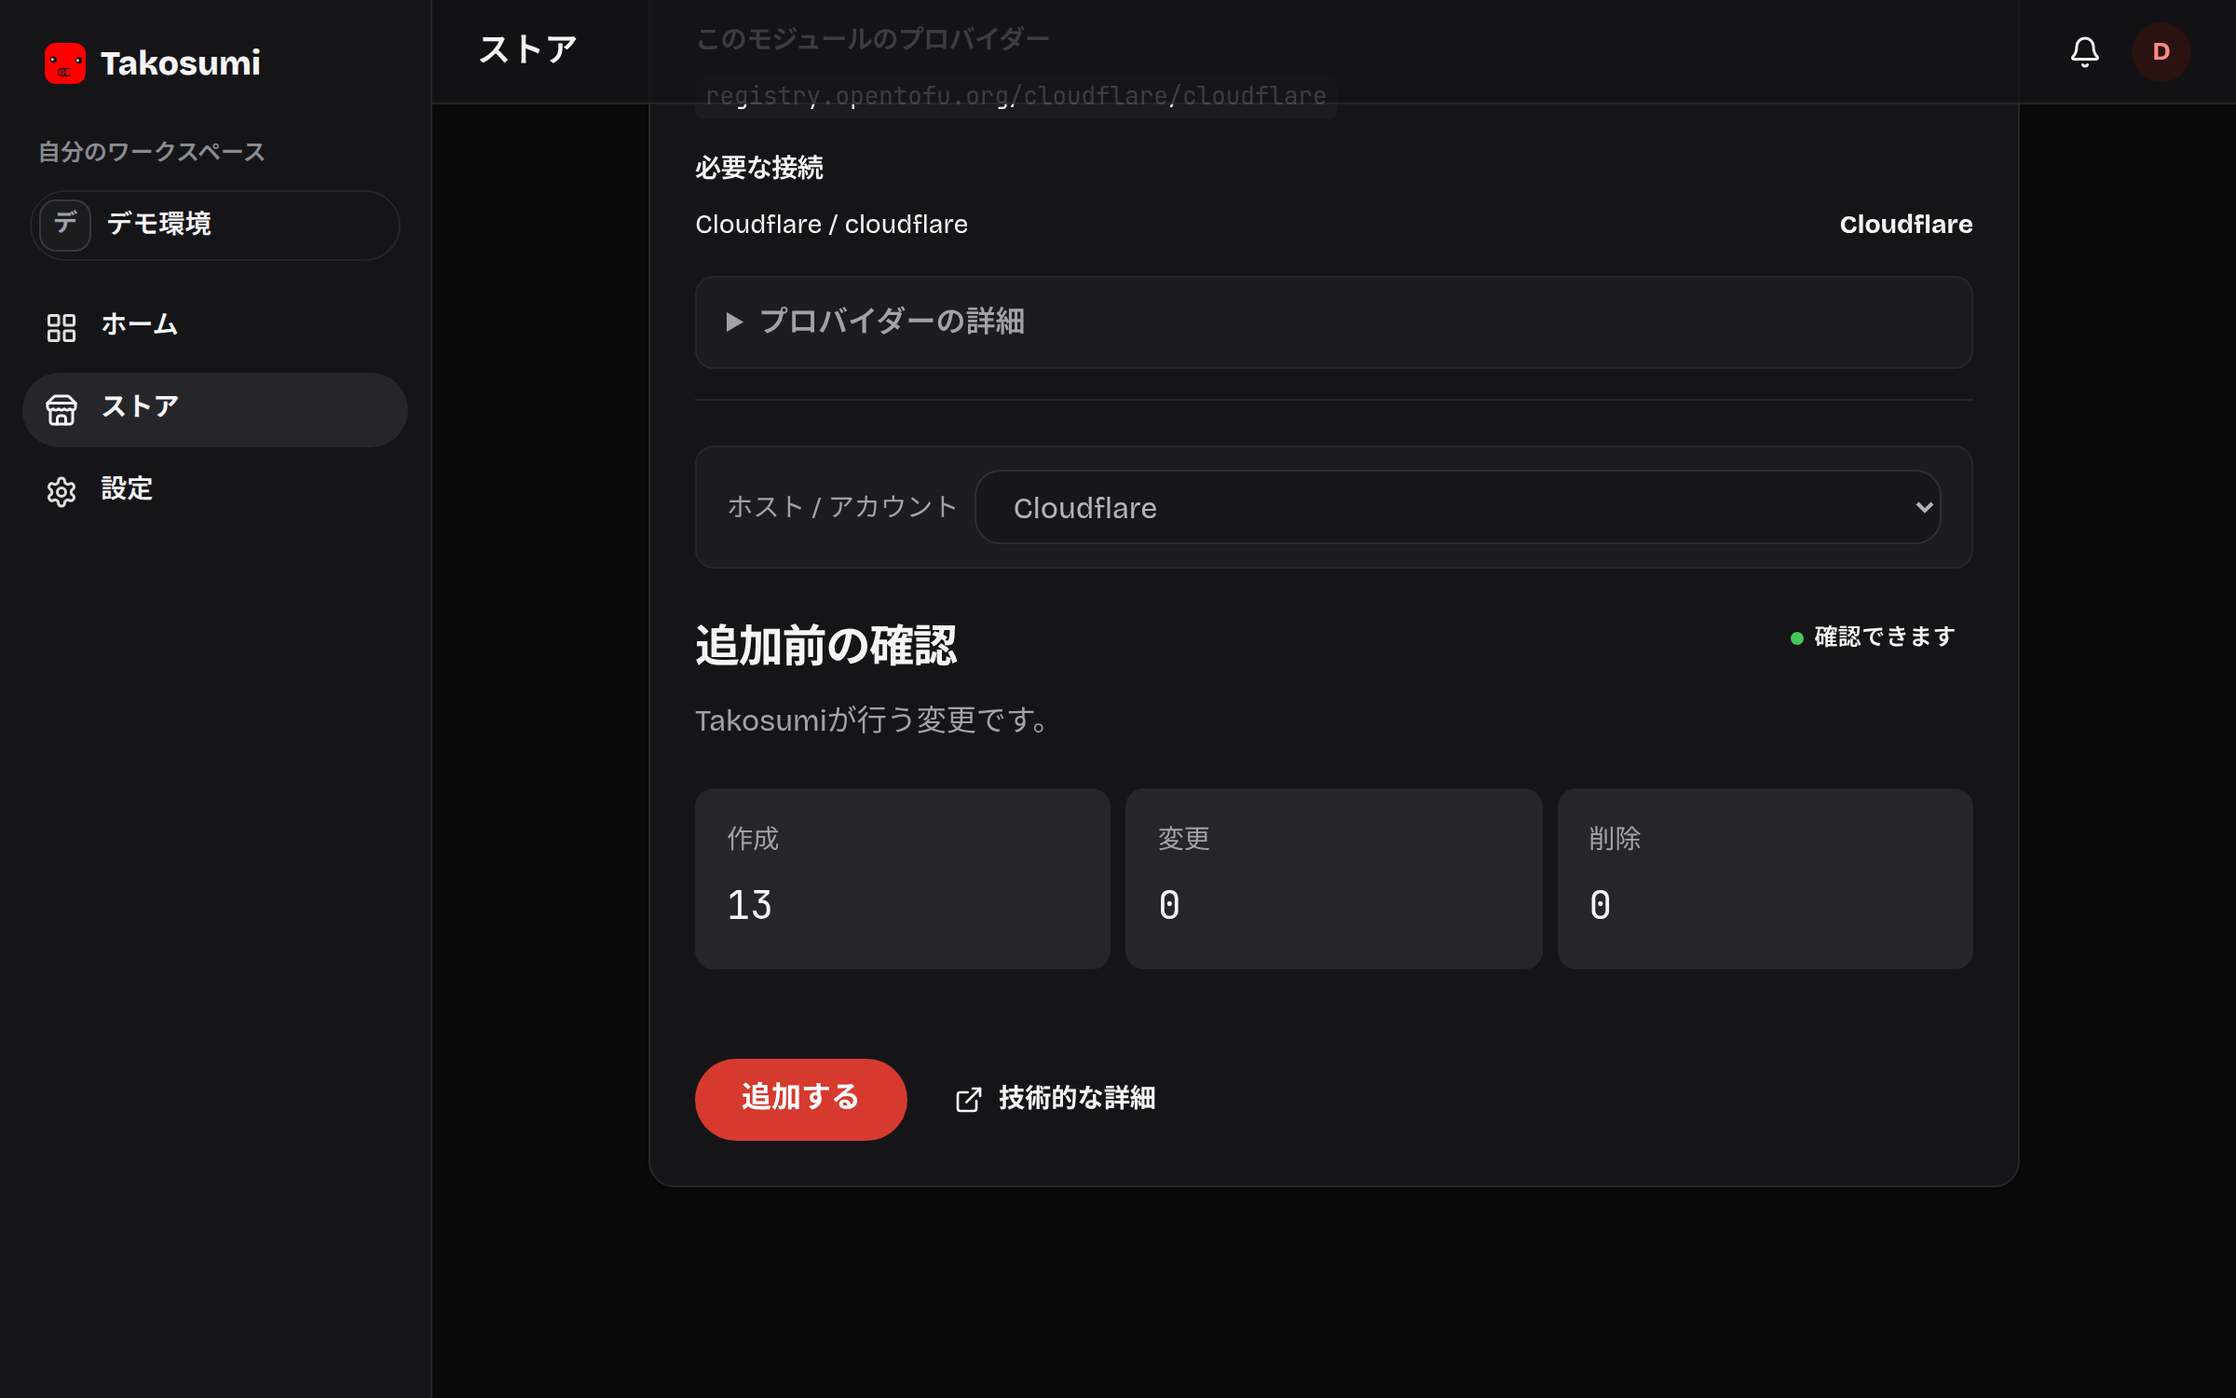
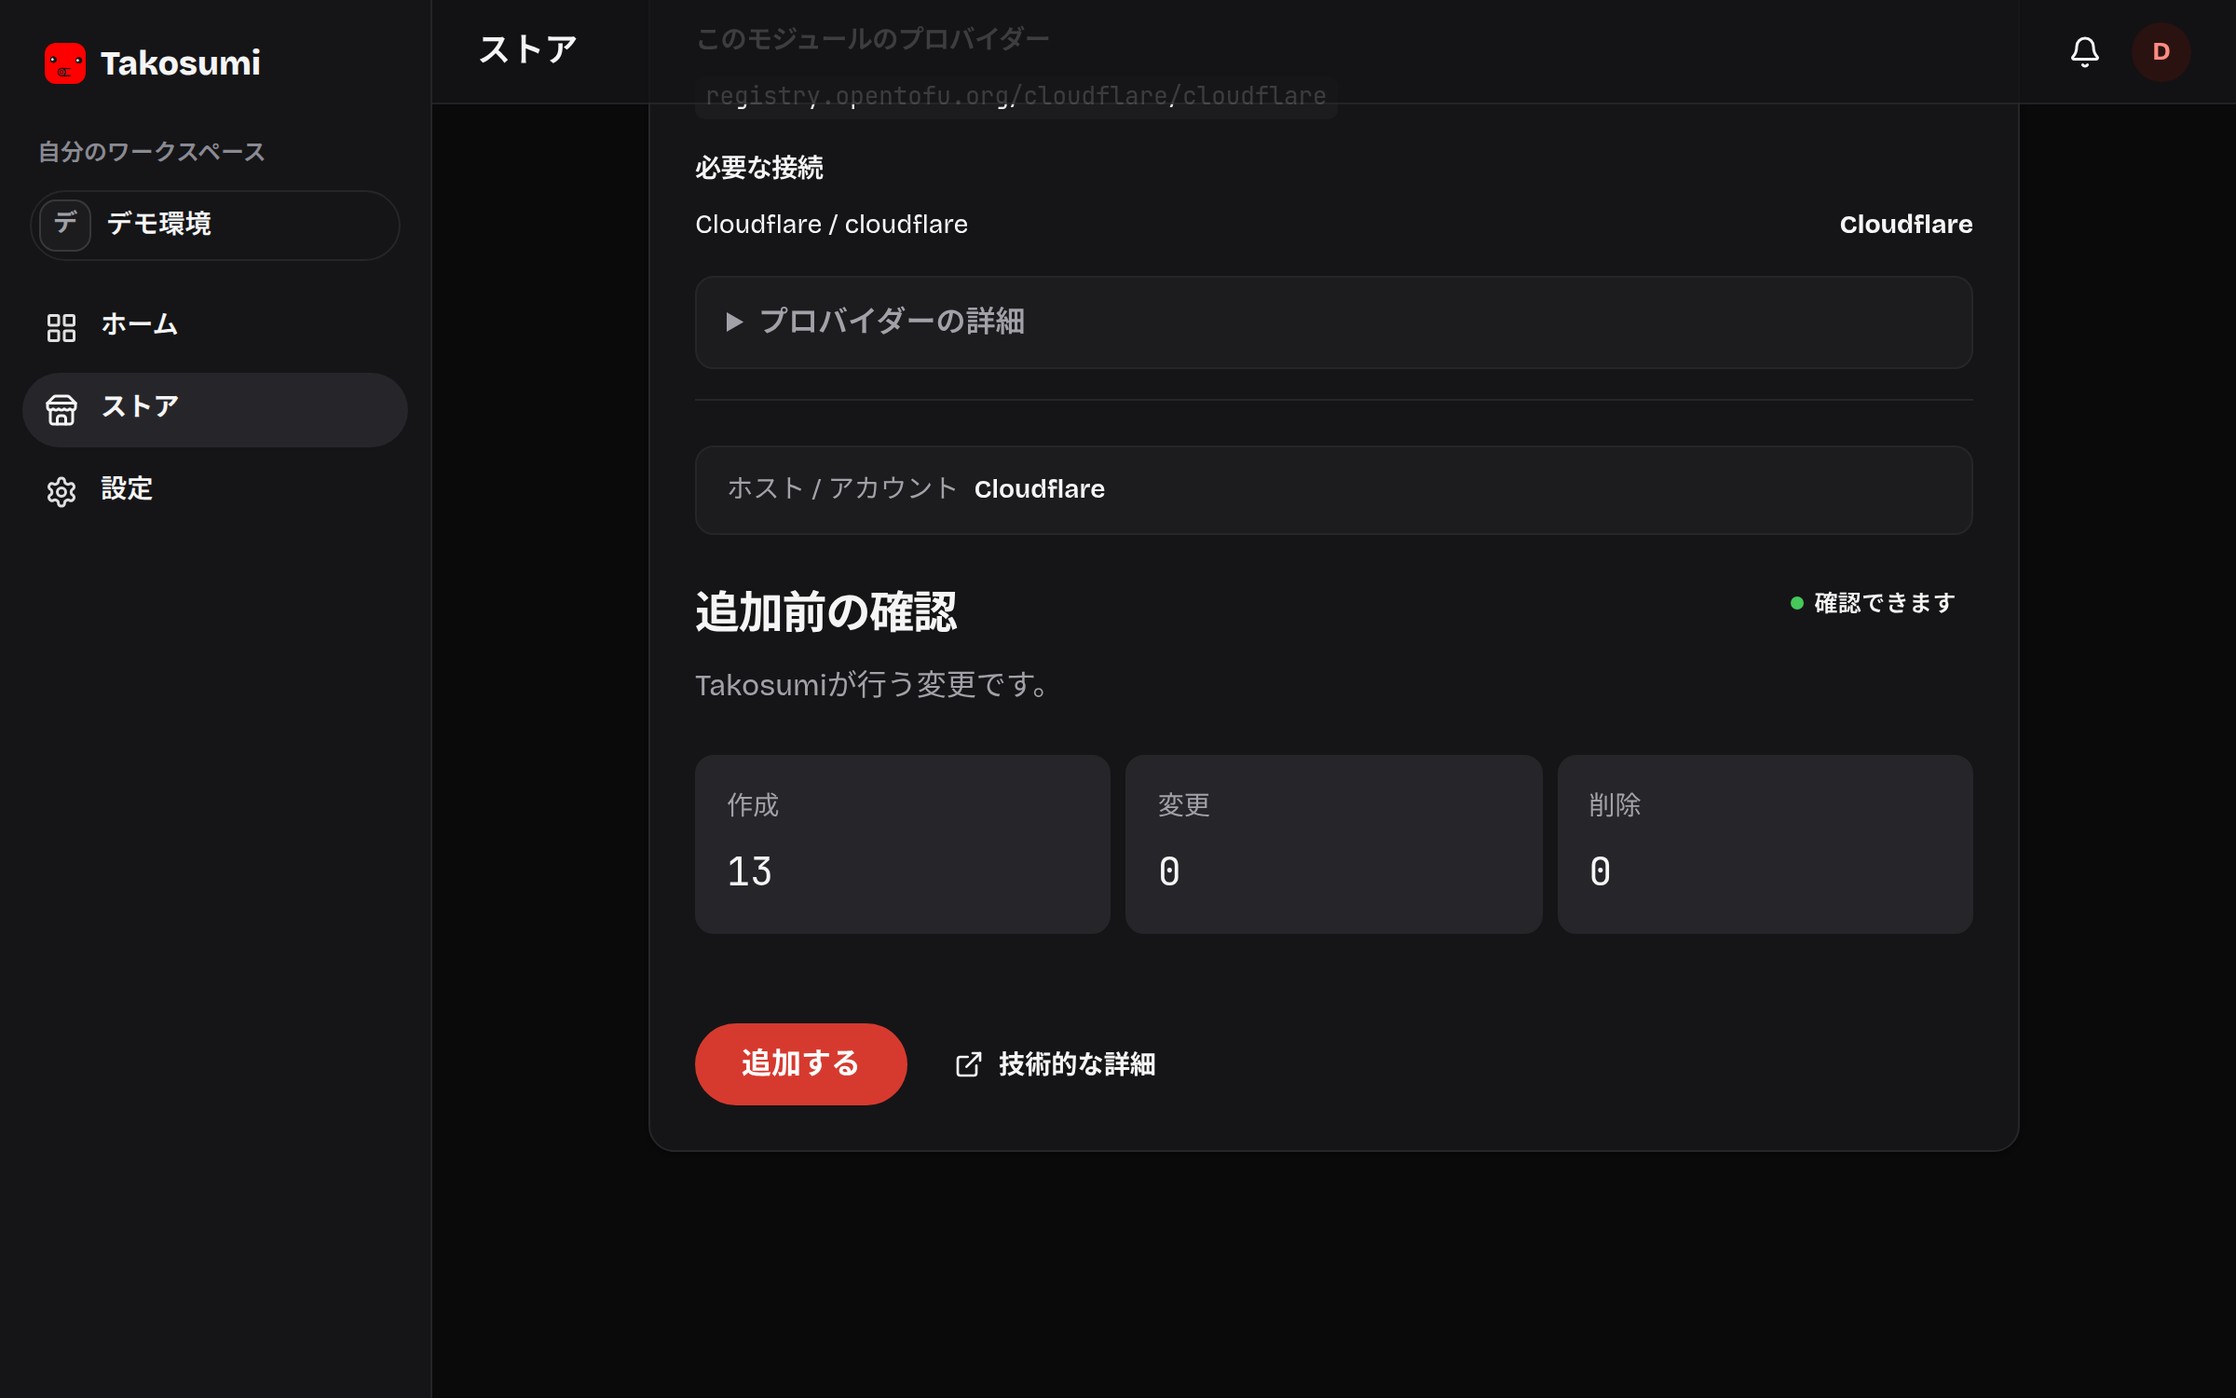
dashboard, app-docs: show the chosen Host / account as text; Japanese Hosted menus and first deployment (#499)
* dashboard: show the auto-selected Host / account as text, not a disabled select

When the add flow has already picked the only compatible connection, the
row showed it in a disabled one-option select. Its chevron and border read
as a choice that did nothing, it stretched to the full row on desktop, and a
long connection name was cut off at the chevron with the full name only in a
title touch users cannot reach. Show the name as plain text that wraps.

The row, its label, data attributes and title are unchanged. The phone e2e
now uses a long connection name and checks that the row has no select or
combobox, that the whole name is shown and wraps at 320px, and that label
and name stay inside the row.

* app-docs: Japanese menus and a first deployment that matches the dashboard

The Japanese Hosted docs showed their top menu and sidebar in English, and
the first deployment steps described an older flow (choose a Connection per
module alias, review "the plan and quote", open the Run's Output). The add
review shows change counts, not a price. Name the Japanese menu items in
Japanese and walk through the add flow with the dashboard's own labels, in
both languages, including when approval is needed and when a change cannot
be deployed.

* website: recapture the review with the Host / account shown as text

The landing's review image shows the auto-selected connection row. Recapture
it from 245a524a1; every other capture, including the Quickstart's, came out
byte-identical.
[…]

diff --git a/tests/dashboard/e2e/dashboard_test.ts b/tests/dashboard/e2e/dashboard_test.ts
@@ -2485,8 +2485,9 @@ test.describe("Takosumi dashboard browser surface", () => {
     const errors = pageErrors(page);
     const traffic = monitorDashboardTraffic(page, mode);
     await page.setViewportSize({ width: 390, height: 844 });
+    const longName = "Cloudflare (direct) production account for the example team";
     const state = await stubProviderDestinationFixture(page, [
-      PORTABLE_CLOUDFLARE_PROVIDER_CONNECTIONS[1]!,
+      { ...PORTABLE_CLOUDFLARE_PROVIDER_CONNECTIONS[1]!, displayName: longName },
     ]);
     const query = new URLSearchParams({
       git: "https://github.com/example/cloudflare-service.git",
@@ -2507,8 +2508,12 @@ test.describe("Takosumi dashboard browser surface", () => {
       "data-provider-connection-id",
       "pc_cloudflare_direct",
     );
-    // A squeezed flex label used to stack one character per line, with the
-    // select pushed past the row's right edge.
+    // The choice is already made: plain text, not a disabled select.
+    await expect(destination.locator("select, [role=combobox]")).toHaveCount(0);
+    await expect(destination).toContainText(/ホスト \/ アカウント|Host \/ account/u);
+    await expect(destination.locator(".iv-destination-name")).toHaveText(longName);
+    // A squeezed flex label used to stack one character per line; a long name
+    // has to wrap inside the row rather than be cut off.
     for (const width of [390, 320]) {
       await page.setViewportSize({ width, height: 844 });
       const geometry = await destination.evaluate((row) => {
@@ -2521,7 +2526,7 @@ test.describe("Takosumi dashboard browser surface", () => {
             right: outer.right - Number.parseFloat(style.borderRightWidth) - Number.parseFloat(style.paddingRight),
           },
           label: label.getBoundingClientRect().toJSON() as DOMRect,
-          select: row.querySelector("select")!.getBoundingClientRect().toJSON() as DOMRect,
+          name: row.querySelector(".iv-destination-name")!.getBoundingClientRect().toJSON() as DOMRect,
           fontSize: Number.parseFloat(getComputedStyle(label).fontSize),
           pageFits: document.documentElement.scrollWidth <= window.innerWidth,
         };
@@ -2529,12 +2534,15 @@ test.describe("Takosumi dashboard browser surface", () => {
       expect(geometry.label.height, `label is one line at ${width}px`).toBeLessThan(geometry.fontSize * 2);
       for (const [name, box] of [
         ["label", geometry.label],
-        ["select", geometry.select],
+        ["name", geometry.name],
       ] as const) {
         expect(box.left, `${name} starts inside the row at ${width}px`).toBeGreaterThanOrEqual(geometry.content.left);
         expect(box.right, `${name} ends inside the row at ${width}px`).toBeLessThanOrEqual(geometry.content.right);
       }
       expect(geometry.pageFits, `page fits ${width}px`).toBe(true);
+      if (width === 320) {
+        expect(geometry.name.height, "the long name wraps at 320px").toBeGreaterThan(geometry.fontSize * 2);
+      }
     }
     expect(state.mutations.some((entry) => /apply|approve/u.test(entry))).toBe(false);
     expectSingleSourceCreate(state);

diff --git a/dashboard/src/views/new/install-view.css b/dashboard/src/views/new/install-view.css
@@ -69,10 +69,10 @@
 .iv-centered h2 { margin-top: var(--tg-s-4); }
 .iv-error, .iv-review-warning { display: flex; gap: var(--tg-s-3); width: min(100%, 46rem); margin: 0 auto var(--tg-s-4); padding: var(--tg-s-4); border: 1px solid var(--tg-danger); border-radius: var(--tg-r-md); background: var(--tg-bg-subtle); color: var(--tg-fg); }
 .iv-execution { display: grid; gap: var(--tg-s-5); }
-/* The label keeps its line; on a narrow screen the select wraps below it. */
+/* The label keeps its line; a name too long to fit wraps below it. */
 .iv-destination-summary { display: flex; flex-wrap: wrap; align-items: center; gap: var(--tg-s-2); margin-bottom: var(--tg-s-5); padding: var(--tg-s-3) var(--tg-s-4); border: 1px solid var(--tg-line); border-radius: var(--tg-r-md); background: var(--tg-bg-subtle); color: var(--tg-fg-muted); font-size: var(--tg-fs-sm); }
 .iv-destination-summary > span { flex: none; white-space: nowrap; }
-.iv-destination-summary .tg-select { flex: 1 1 14rem; width: auto; min-width: 0; margin: 0; color: var(--tg-fg); }
+.iv-destination-name { flex: 1 1 auto; min-width: 0; color: var(--tg-fg); font-weight: 600; overflow-wrap: anywhere; }
 .iv-review-head { display: flex; align-items: flex-start; justify-content: space-between; gap: var(--tg-s-4); }
 .iv-status { display: flex; align-items: flex-start; gap: var(--tg-s-3); padding: var(--tg-s-4); border: 1px solid var(--tg-line); border-radius: var(--tg-r-md); background: var(--tg-bg-hi); }
 .iv-status strong, .iv-status span { display: block; }

diff --git a/app-docs/.vitepress/config.ts b/app-docs/.vitepress/config.ts
@@ -20,13 +20,13 @@ function firstParagraph(srcDir: string, relativePath: string): string | undefine
 }
 
 const jaNav: DefaultTheme.NavItem[] = [
-  { text: "Takosumi", link: "/" },
-  { text: "Pricing", link: "/pricing" },
-  { text: "Resources", link: "/resources" },
-  { text: "Endpoints", link: "/endpoints" },
-  { text: "Support", link: "/support" },
+  { text: "概要", link: "/" },
+  { text: "料金", link: "/pricing" },
+  { text: "リソース", link: "/resources" },
+  { text: "エンドポイント", link: "/endpoints" },
+  { text: "サポート", link: "/support" },
   { text: "SLA", link: "/sla" },
-  { text: "Software docs", link: "https://takosumi.com/docs/" },
+  { text: "ソフトウェアのドキュメント", link: "https://takosumi.com/docs/" },
 ];
 
 const enNav: DefaultTheme.NavItem[] = [
@@ -44,11 +44,11 @@ const jaSidebar: DefaultTheme.SidebarMulti = {
     {
       text: "Takosumi hosted service",
       items: [
-        { text: "Overview", link: "/" },
-        { text: "Pricing", link: "/pricing" },
-        { text: "Resources", link: "/resources" },
-        { text: "Endpoints", link: "/endpoints" },
-        { text: "Support", link: "/support" },
+        { text: "概要", link: "/" },
+        { text: "料金", link: "/pricing" },
+        { text: "リソース", link: "/resources" },
+        { text: "エンドポイント", link: "/endpoints" },
+        { text: "サポート", link: "/support" },
         { text: "SLA", link: "/sla" },
       ],
     },

diff --git a/dashboard/src/views/new/InstallView.tsx b/dashboard/src/views/new/InstallView.tsx
@@ -635,17 +635,12 @@ function Inner(props: { readonly installingPrincipalId: string }) {
             destination: providerConnectionDisplayName(destination()),
           })}
         >
+          {/* Already decided, so plain text: a disabled select looked like a
+              choice that did nothing and cut long names at its chevron. */}
           <span>{t("installStore.destination")}</span>{" "}
-          <Select
-            aria-label={t("installStore.destination")}
-            value={destination().id}
-            disabled={true}
-            data-provider-connection-id={destination().id}
-          >
-            <option value={destination().id}>
-              {providerConnectionDisplayName(destination())}
-            </option>
-          </Select>
+          <strong class="iv-destination-name">
+            {providerConnectionDisplayName(destination())}
+          </strong>
         </div>
       )}
     </Show>

diff --git a/tests/dashboard/src/views/new/install-view_test.ts b/tests/dashboard/src/views/new/install-view_test.ts
@@ -596,6 +596,13 @@ describe("single-screen install surface", () => {
     expect(view).toContain("providerConnectionDisplayName(destination())");
     expect(view).toContain("setAutoSelectedProviderRows");
     expect(view).toContain("setAutoSelectedProviderRows(new Set<string>());");
+    // The decided destination reads as text, not as a disabled select.
+    const summary = view.slice(
+      view.indexOf("const autoSelectedDestinationSummary"),
+      view.indexOf("const providerConnectionSetupRequired"),
+    );
+    expect(summary).toContain('class="iv-destination-name"');
+    expect(summary).not.toContain("<Select");
   });
 
   test("makes the provider/module then Host/account boundary explicit", () => {

diff --git a/app-docs/index.md b/app-docs/index.md
@@ -9,12 +9,21 @@ Takosumi hosted service は、Git repository の OpenTofu module を実行し、
 
 ## 最初のデプロイ
 
-1. [Dashboard](https://app.takosumi.com/) にサインインし、Workspace を選びます。
-2. Store または Git URL から repository を追加します。
-3. 画面に表示される接続要件ごとに、module 名や alias を確認して Connection を選びます。
-   認証情報が不要な provider に Connection は必要ありません。
-4. plan と見積りを確認し、apply します。
-5. Run の Output と、アプリが公開した Interface から接続先を開きます。
+1. [ダッシュボード](https://app.takosumi.com/) にサインインし、ワークスペースを選びます。
+2. **ストア** でアプリの **追加** を押すか、**Gitリポジトリから追加** で Git URL を入れます。
+   アプリの追加リンクを開いた場合も同じ画面になります。
+3. サービス名と取得元を確認して **追加** を押します。Takosumi が Git の版を固定し、module と
+   必要な接続を調べます。リソースはまだ作られません。
+4. 接続を選ぶ必要があれば、**ホスト / アカウントを選択** で選んで **続ける** を押します。
+   認証情報が不要な provider には接続は要りません。アプリに入力項目があれば、
+   **サービスを設定** で入れて **続ける** を押します。
+5. **追加前の確認** で、作成・変更・削除されるリソースの数を確かめてから **追加する** を
+   押します。
+   - 削除・置き換え・import を含む変更は、先に **この変更を承認** を押し、
+     **変更内容を確認しました** にチェックしてから進みます。
+   - ポリシーや料金の条件で止められた変更は **追加を完了できませんでした** と表示され、
+     **技術的な詳細** から Run の詳細を確認できます。
+6. **追加できました** と表示されたら、**サービスを開く** から使い始めます。
 
 ```text
 Git repository

diff --git a/app-docs/en/index.md b/app-docs/en/index.md
@@ -10,12 +10,21 @@ apply, state, outputs, audit, usage, and prepaid credit together.
 
 ## Your first deployment
 
-1. Sign in to the [Dashboard](https://app.takosumi.com/) and select a Workspace.
-2. Add a repository from the Store or by Git URL.
-3. Select a Connection for each displayed connection requirement, using its module name and
-   alias to distinguish entries. Providers that do not require credentials need no Connection.
-4. Review the plan and quote, then apply it.
-5. Open the service from the Run outputs or an Interface published by the app.
+1. Sign in to the [dashboard](https://app.takosumi.com/) and select a workspace.
+2. Press **Add** on an app in the **Store**, or enter a Git URL under
+   **Add from a Git repository**. Opening an app's add link leads to the same screen.
+3. Check the service name and source, then press **Add**. Takosumi pins the Git version
+   and checks the module and the connections it needs. No resources are created yet.
+4. If a connection has to be chosen, pick it on **Choose a Host / account** and press
+   **Continue**. Providers that need no credentials need no connection. If the app asks
+   for input, fill it in on **Set up the service** and press **Continue**.
+5. On **Review before adding**, check how many resources will be created, changed, and
+   deleted, then press **Add**.
+   - A change that deletes, replaces, or imports something first needs
+     **Approve this change** and the **I reviewed these changes** checkbox.
+   - A change that a policy or billing check stops shows **Service setup did not finish**,
+     and **Technical details** opens its Run.
+6. When **Service added** appears, **Open service** takes you to it.
 
 ```text
 Git repository

diff --git a/website/scripts/capture-product-ui-provenance.md b/website/scripts/capture-product-ui-provenance.md
@@ -82,7 +82,8 @@ requests, and missing product cards fail the capture.
 The four `dashboard-review-*` images, captured on 2026-10-15 from the dashboard
 source at `d128a386f` (after #493 fixed the 「ホスト / アカウント」 row) and
 recaptured on 2026-10-16 from `9f6218bfd` (after #496 changed the review's badge
-from 「成功」 to 「確認できます」), show the
+from 「成功」 to 「確認できます」) and again from `245a524a1` (which shows the
+auto-selected 「ホスト / アカウント」 as text instead of a disabled select), show the
 add flow's 「追加前の確認」 screen for Takos, reached by opening `/new` with an
 example Git URL and pressing 「追加」 in the real dashboard. For this screen and
 the Quickstart screens, the script answers the add flow's API calls in the

diff --git a/docs/en/getting-started/quickstart.md b/docs/en/getting-started/quickstart.md
@@ -115,7 +115,7 @@ point. After checking the changes, press **Add** again to start the apply.
 A change that deletes, replaces, or imports a resource first needs
 **Approve this change**, then the **I reviewed these changes** checkbox, before
 **Add**; the example's first install shows neither. A change that a policy or
-billing check stops shows **These changes can't be deployed**, and
+billing check stops shows **Service setup did not finish**, and
 **Technical details** opens its Run.
 
 When it finishes, **Service added** appears and **Open service** opens the new
